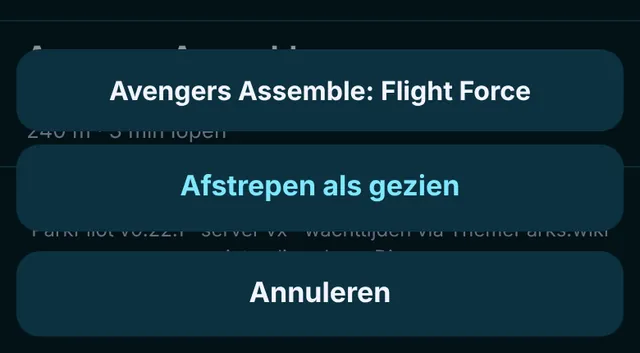
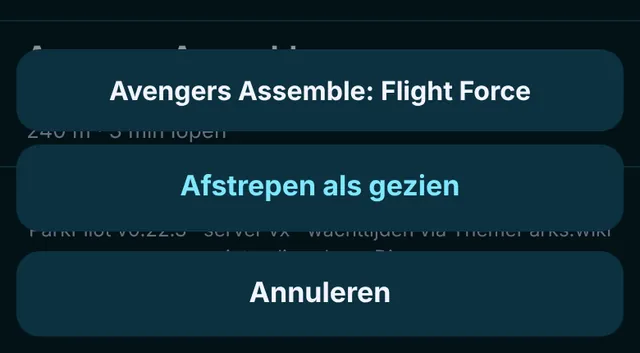
0.22.3: regel onder de naam op één regel met iconen; veranderd nooit recenter dan bevestigd
Claude-Session: https://claude.ai/code/session_01LXXgKJuMiuwNeSbj9zwCKJ

Changed region(s): [[0.0312, 0.6544, 0.9688, 0.6856]]

diff --git a/apps/web/src/i18n.ts b/apps/web/src/i18n.ts
@@ -19,6 +19,9 @@ const nl = {
   ago: (span: string) => `${span} geleden`,
   min: (m: number) => `${m} min`,
   hours: (h: number, m: number) => (m ? `${h} u ${m} min` : `${h} u`),
+  hoursShort: (h: number, m: number) => (m ? `${h} u ${m}` : `${h} u`),
+  daysShort: (d: number) => `${d} d`,
+  geq: (span: string) => `≥ ${span}`,
   days: (d: number) => `${d} dagen`,
   inDur: (d: string) => `over ${d}`,
   now: 'nu',
@@ -452,7 +455,7 @@ const nl = {
   helpToCode: 'Naar koppelcode',
   helpTopics: [
     { id: 'views', title: 'Alles en Mijn dag', body: ['Alles toont het hele park met tabbladen voor attracties, shows en wat je volgt. Mijn dag toont alleen wat je volgt, met shows bovenaan.', 'Volgen: tik op een naam en dan op Volgen. Het park wissel je in Alles met de knoppen onder de schakelaar.'] },
-    { id: 'signs', title: 'Wachttijden en tekens', body: ['Het getal is de wachttijd in minuten: groen onder 20, oranje onder 45, daarboven rood.', 'Rood uitroepteken = storing, grijze moersleutel = onderhoud, maantje = park dicht. Klein getal rechtsboven = single rider. ▲ rood = langer, ▼ groen = korter dan de vorige meting.', 'Veranderd = wanneer ParkPilot het getal zag veranderen (het meet elke 5 minuten). Bevestigd = wanneer de bron het getal voor het laatst doorgaf: groen tot 10 min, oranje tot 30 min, daarna rood. "Al 2 u gelijk" = niet veranderd sinds ParkPilot begon te meten; het echte moment kan eerder zijn.', 'Grijs getal = de bron gaf al meer dan 30 minuten geen update; het kan verouderd zijn. Zulke getallen tellen niet mee in gemiddelde en kortste wachttijd.', 'Storingstegel (linksboven in Alles): de storingen van vandaag met tijd, duur en attractie; rood = loopt nog. Tik op een kop om te sorteren, nog eens = omgekeerd. "Al minstens" = liep al toen ParkPilot begon te meten. Onder Onderhoud staan ook attracties die al meer dan een dag dicht zijn; de datum is de laatste update van de bron.'] },
+    { id: 'signs', title: 'Wachttijden en tekens', body: ['Het getal is de wachttijd in minuten: groen onder 20, oranje onder 45, daarboven rood.', 'Rood uitroepteken = storing, grijze moersleutel = onderhoud, maantje = park dicht. Klein getal rechtsboven = single rider. ▲ rood = langer, ▼ groen = korter dan de vorige meting.', 'Regel onder de naam: trapje = hoe lang geleden de wachttijd veranderde, vinkje = hoe lang geleden de bron hem voor het laatst bevestigde (groen tot 10 min, oranje tot 30 min, daarna rood). "≥ 2 u" = ParkPilot zag hem in die tijd niet veranderen; het echte moment kan eerder zijn. De verandering is nooit recenter dan de bevestiging: ParkPilot meet elke 5 minuten en neemt dan het tijdstip van de bron.', 'Grijs getal = de bron gaf al meer dan 30 minuten geen update; het kan verouderd zijn. Zulke getallen tellen niet mee in gemiddelde en kortste wachttijd.', 'Storingstegel (linksboven in Alles): de storingen van vandaag met tijd, duur en attractie; rood = loopt nog. Tik op een kop om te sorteren, nog eens = omgekeerd. "Al minstens" = liep al toen ParkPilot begon te meten. Onder Onderhoud staan ook attracties die al meer dan een dag dicht zijn; de datum is de laatste update van de bron.'] },
     { id: 'expand', title: 'Uitklappen en details', body: ['Tik op een wachttijd voor het verloop van vandaag, van opening tot sluiting. De schaal rechts is in minuten. Alleen wijzigingen die ParkPilot zag (elke 5 minuten) staan erin.', 'Stippellijn = dezelfde weekdag in de vorige weken (gemiddeld, tot vier weken). Lichtrode zone met rode stippellijn onderin = storing. Grijze lijn = de bron gaf in die tijd geen update. Grijze achtergrond met een tijdstip = je had geen bereik; het werkt zich vanzelf bij.', 'Tik op de naam voor details en omschrijving. Omschrijvingen en lengtes zijn door ParkPilot samengesteld; controleer de borden bij de ingang.'] },
     { id: 'swipe', title: 'Vegen en afstrepen', body: ['In Mijn dag: naar links vegen strept af als gezien (alleen vandaag, alleen dit toestel). Nog eens vegen maakt het ongedaan.', 'Naar rechts vegen opent lopende navigatie. Met de knop Gezien verberg je afgestreepte rijen.'] },
     { id: 'queue', title: 'In de rij en spelletje', body: ['Houd een attractie even vast en kies de rij. Onderin loopt de tijd met de verwachting. Tik op Aan de beurt en daarna Eruit; je ziet hoe lang je echt wachtte.', 'Bij inchecken kun je een spelletje spelen met gedeelde hiscores. Niet meer vragen? Zet het terug in Instellingen.'] },
@@ -481,6 +484,9 @@ const en: Dict = {
   ago: (span) => `${span} ago`,
   min: (m) => `${m} min`,
   hours: (h, m) => (m ? `${h} h ${m} min` : `${h} h`),
+  hoursShort: (h, m) => (m ? `${h} h ${m}` : `${h} h`),
+  daysShort: (d) => `${d} d`,
+  geq: (span) => `≥ ${span}`,
   days: (d) => `${d} days`,
   inDur: (d) => `in ${d}`,
   now: 'now',
@@ -895,7 +901,7 @@ const en: Dict = {
   helpToCode: 'Go to link code',
   helpTopics: [
     { id: 'views', title: 'All and My day', body: ['All shows the whole park with tabs for attractions, shows and what you follow. My day shows only what you follow, with shows at the top.', 'Follow: tap a name, then Follow. Switch park in All with the buttons below the switch.'] },
-    { id: 'signs', title: 'Wait times and signs', body: ['The number is the wait time in minutes: green under 20, orange under 45, red above that.', 'Red exclamation mark = down, grey wrench = refurbishment, moon = park closed. Small number top right = single rider. ▲ red = longer, ▼ green = shorter than the previous reading.', 'Changed = when ParkPilot saw the number change (it checks every 5 minutes). Confirmed = when the source last reported the number: green up to 10 min, orange up to 30 min, red after that. "Same for 2 h" = unchanged since ParkPilot started measuring; the real moment may be earlier.', 'Grey number = the source has not updated for more than 30 minutes; it may be out of date. Such numbers do not count towards the average and shortest wait.', 'Breakdown tile (top left in All): today\'s breakdowns with time, duration and attraction; red = still ongoing. Tap a header to sort, again = reverse. "At least" = it was already going when ParkPilot started measuring. Refurbishment also lists attractions closed for more than a day; the date is the source\'s last update.'] },
+    { id: 'signs', title: 'Wait times and signs', body: ['The number is the wait time in minutes: green under 20, orange under 45, red above that.', 'Red exclamation mark = down, grey wrench = refurbishment, moon = park closed. Small number top right = single rider. ▲ red = longer, ▼ green = shorter than the previous reading.', 'Line under the name: steps = how long ago the wait time changed, tick = how long ago the source last confirmed it (green up to 10 min, orange up to 30 min, red after that). "≥ 2 h" = ParkPilot did not see it change in that time; the real moment may be earlier. The change is never more recent than the confirmation: ParkPilot checks every 5 minutes and then uses the source\'s time.', 'Grey number = the source has not updated for more than 30 minutes; it may be out of date. Such numbers do not count towards the average and shortest wait.', 'Breakdown tile (top left in All): today\'s breakdowns with time, duration and attraction; red = still ongoing. Tap a header to sort, again = reverse. "At least" = it was already going when ParkPilot started measuring. Refurbishment also lists attractions closed for more than a day; the date is the source\'s last update.'] },
     { id: 'expand', title: 'Expanding and details', body: ['Tap a wait time for today\'s history, from opening to closing. The scale on the right is in minutes. Only changes ParkPilot saw (every 5 minutes) are included.', 'Dotted line = the same weekday in previous weeks (average, up to four weeks). Light red zone with a red dotted line at the bottom = down. Grey line = the source gave no update during that time. Grey background with a time = you had no signal; it updates by itself.', 'Tap the name for details and a description. Descriptions and heights are compiled by ParkPilot; check the signs at the entrance.'] },
     { id: 'swipe', title: 'Swiping and ticking off', body: ['In My day: swipe left to tick off as seen (today only, this device only). Swipe again to undo.', 'Swipe right for walking directions. The Seen button hides ticked-off rows.'] },
     { id: 'queue', title: 'In the queue and the game', body: ['Hold an attraction and choose the queue. The time runs at the bottom with the expected wait. Tap My turn, then Done; you see how long you really waited.', 'When checking in you can play a game with shared high scores. Turned off asking? Turn it back on in Settings.'] },
@@ -922,6 +928,9 @@ const pt: Dict = {
   ago: (span) => `há ${span}`,
   min: (m) => `${m} min`,
   hours: (h, m) => (m ? `${h} h ${m} min` : `${h} h`),
+  hoursShort: (h, m) => (m ? `${h} h ${m}` : `${h} h`),
+  daysShort: (d) => `${d} d`,
+  geq: (span) => `≥ ${span}`,
   days: (d) => `${d} dias`,
   inDur: (d) => `daqui a ${d}`,
   now: 'agora',
@@ -1336,7 +1345,7 @@ const pt: Dict = {
   helpToCode: 'Ir para o código de ligação',
   helpTopics: [
     { id: 'views', title: 'Tudo e O meu dia', body: ['Tudo mostra o parque inteiro com separadores para atrações, espetáculos e o que segue. O meu dia mostra só o que segue, com os espetáculos no topo.', 'Seguir: toque num nome e depois em Seguir. Mude de parque em Tudo com os botões por baixo do seletor.'] },
-    { id: 'signs', title: 'Tempos e sinais', body: ['O número é o tempo de espera em minutos: verde abaixo de 20, laranja abaixo de 45, vermelho acima disso.', 'Ponto de exclamação vermelho = avaria, chave cinzenta = manutenção, lua = parque fechado. Número pequeno no canto superior direito = single rider. ▲ vermelho = mais longo, ▼ verde = mais curto do que a medição anterior.', 'Alterado = quando o ParkPilot viu o número mudar (verifica a cada 5 minutos). Confirmado = quando a fonte comunicou o número pela última vez: verde até 10 min, laranja até 30 min, depois vermelho. "Igual há 2 h" = sem alteração desde que o ParkPilot começou a medir; o momento real pode ser anterior.', 'Número cinzento = a fonte não atualiza há mais de 30 minutos; pode estar desatualizado. Estes números não contam para a média nem para o tempo mais curto.', 'Mosaico de avarias (canto superior esquerdo em Tudo): as avarias de hoje com hora, duração e atração; vermelho = ainda a decorrer. Toque num cabeçalho para ordenar, novamente = inverter. "Pelo menos" = já decorria quando o ParkPilot começou a medir. Em Manutenção também aparecem atrações fechadas há mais de um dia; a data é a última atualização da fonte.'] },
+    { id: 'signs', title: 'Tempos e sinais', body: ['O número é o tempo de espera em minutos: verde abaixo de 20, laranja abaixo de 45, vermelho acima disso.', 'Ponto de exclamação vermelho = avaria, chave cinzenta = manutenção, lua = parque fechado. Número pequeno no canto superior direito = single rider. ▲ vermelho = mais longo, ▼ verde = mais curto do que a medição anterior.', 'Linha sob o nome: degraus = há quanto tempo o tempo de espera mudou, visto = há quanto tempo a fonte o confirmou pela última vez (verde até 10 min, laranja até 30 min, depois vermelho). "≥ 2 h" = o ParkPilot não o viu mudar nesse período; o momento real pode ser anterior. A alteração nunca é mais recente do que a confirmação: o ParkPilot verifica a cada 5 minutos e usa a hora da fonte.', 'Número cinzento = a fonte não atualiza há mais de 30 minutos; pode estar desatualizado. Estes números não contam para a média nem para o tempo mais curto.', 'Mosaico de avarias (canto superior esquerdo em Tudo): as avarias de hoje com hora, duração e atração; vermelho = ainda a decorrer. Toque num cabeçalho para ordenar, novamente = inverter. "Pelo menos" = já decorria quando o ParkPilot começou a medir. Em Manutenção também aparecem atrações fechadas há mais de um dia; a data é a última atualização da fonte.'] },
     { id: 'expand', title: 'Abrir e detalhes', body: ['Toque num tempo de espera para ver a evolução de hoje, da abertura ao fecho. A escala à direita é em minutos. Só entram as alterações vistas pelo ParkPilot (a cada 5 minutos).', 'Linha pontilhada = o mesmo dia da semana nas semanas anteriores (média, até quatro semanas). Zona vermelho-clara com linha vermelha pontilhada em baixo = avaria. Linha cinzenta = a fonte não atualizou nesse período. Fundo cinzento com uma hora = estava sem rede; atualiza-se sozinho.', 'Toque no nome para detalhes e descrição. As descrições e alturas são compiladas pelo ParkPilot; confirme os avisos à entrada.'] },
     { id: 'swipe', title: 'Deslizar e marcar', body: ['Em O meu dia: deslizar para a esquerda marca como visto (só hoje, só neste aparelho). Deslize outra vez para anular.', 'Deslizar para a direita abre a navegação a pé. O botão Vistos esconde as linhas marcadas.'] },
     { id: 'queue', title: 'Na fila e o jogo', body: ['Mantenha uma atração premida e escolha a fila. Em baixo corre o tempo com a espera prevista. Toque em A minha vez e depois em Saí; vê quanto tempo esperou de facto.', 'Ao entrar na fila pode jogar um jogo com recordes partilhados. Desligou a pergunta? Volte a ligá-la nas Definições.'] },

diff --git a/apps/web/src/main.ts b/apps/web/src/main.ts
@@ -25,7 +25,7 @@ import {
 } from './api';
 import { parkArt, parkIcon } from './art';
 import { h, svg } from './dom';
-import { agoLabel, clock, dec1, dur, minutesSince, waitLevel } from './format';
+import { agoLabel, clock, dec1, dur, durShort, minutesSince, waitLevel } from './format';
 import { applyLang, getLangPref, kindName, lang, LANG_NAMES, LANGS, setLangPref, t as T, type LangPref } from './i18n';
 import { GeoError, formatDistance, getPosition, getPrecisePosition, haversineMeters, hasGeoPermission, walkMinutes } from './geo';
 import { icon, iconForKind } from './icons';
@@ -437,11 +437,23 @@ function openIssues(): void {
   }
 }
 
-function changedText(live: LiveInfo | undefined): string {
-  if (!live?.changedAt) return '';
-  if (live.changeObserved) return T.changed(agoLabel(live.changedAt));
-  const min = minutesSince(live.changedAt);
-  return min < 1 ? '' : T.unchangedFor(dur(min));
+/** Wanneer de wachttijd/status voor het laatst veranderde. Onze cron ziet een wijziging pas een paar minuten
+ *  nadat de bron hem doorgaf; is de bron-update ouder dan ons tijdstip, dan gebeurde de wijziging uiterlijk
+ *  toen. Zo is "veranderd" nooit recenter dan "bevestigd". Zelfde regel voor "al gelijk sinds". */
+function changedAtMs(live: LiveInfo | undefined): number | null {
+  if (!live?.changedAt) return null;
+  const c = Date.parse(live.changedAt);
+  const u = live.updatedAt ? Date.parse(live.updatedAt) : NaN;
+  return Number.isFinite(u) ? Math.min(c, u) : c;
+}
+
+/** Korte tekst voor de rij: "21 min" of (niet zelf zien veranderen) "≥ 3 u 10". */
+function changedShort(live: LiveInfo | undefined): string {
+  const c = changedAtMs(live);
+  if (c === null) return '';
+  const min = Math.max(0, Math.floor((Date.now() - c) / 60000));
+  if (live!.changeObserved) return durShort(min);
+  return min < 1 ? '' : T.geq(durShort(min));
 }
 
 /** Pijl met het verschil sinds de vorige waarneming. Hoger is slechter (rood), lager is beter (groen). */
@@ -465,16 +477,27 @@ function freshness(iso: string | null): 'fresh' | 'aging' | 'old' | 'unknown' {
   return min <= 10 ? 'fresh' : min <= 30 ? 'aging' : 'old';
 }
 
+/** Eén regel onder de naam: ▼ −5 · [trapje] 21 min · [vinkje] 5 min. Trapje = wachttijd veranderd, vinkje = bron
+ *  bevestigd (kleur = versheid). Woorden alleen voor schermlezers en bij lang drukken (title). */
 function metaLine(live: LiveInfo | undefined): HTMLElement | null {
   if (!live) return null;
   const parts: (Node | string)[] = [];
   const trend = trendNode(live);
-  if (trend) parts.push(trend, ' · ');
-  const changed = changedText(live);
-  if (changed) parts.push(changed, ' · ');
-  if (live.updatedAt) parts.push(h('span', { class: `src ${freshness(live.updatedAt)}` }, T.confirmed(agoLabel(live.updatedAt))));
-  else if (parts.length) parts.pop();
-  return parts.length ? h('div', { class: 'row-meta' }, ...parts) : null;
+  if (trend) parts.push(trend);
+  const changed = changedShort(live);
+  if (changed) {
+    const c = changedAtMs(live)!;
+    const full = live.changeObserved ? T.changed(agoLabel(new Date(c).toISOString())) : T.unchangedFor(dur(Math.floor((Date.now() - c) / 60000)));
+    parts.push(h('span', { class: 'mi', title: full, 'aria-label': full }, icon('changed', 13), changed));
+  }
+  if (live.updatedAt) {
+    const full = T.confirmed(agoLabel(live.updatedAt));
+    parts.push(h('span', { class: `mi src ${freshness(live.updatedAt)}`, title: full, 'aria-label': full }, icon('confirmed', 13), durShort(minutesSince(live.updatedAt))));
+  }
+  if (!parts.length) return null;
+  const line: (Node | string)[] = [];
+  parts.forEach((p, i) => { if (i) line.push(' · '); line.push(p); });
+  return h('div', { class: 'row-meta one' }, ...line);
 }
 
 function upcomingStarts(live: LiveInfo | undefined): number[] {
@@ -1733,10 +1756,12 @@ function openDetail(entity: EntityInfo, day?: { date: string; slots: ShowDayResp
       const t = { open: T.stOpenNoWait, down: T.stDown, closed: T.stClosed, refurbishment: T.stRefurb, unknown: T.stUnknown }[live.status];
       bigNodes.push(h('div', { class: 'big' }, statusRing(entity, live), h('div', { class: 'label' }, t)));
     }
-    if (live.changedAt) {
-      const unchanged = minutesSince(live.changedAt);
+    const cAt = changedAtMs(live);
+    if (cAt !== null) {
+      const cIso = new Date(cAt).toISOString();
+      const unchanged = Math.floor((Date.now() - cAt) / 60000);
       addFact(T.fWaitChanged, live.changeObserved
-        ? (live.prevWaitMinutes !== null ? T.wasPrev(agoLabel(live.changedAt), live.prevWaitMinutes) : agoLabel(live.changedAt))
+        ? (live.prevWaitMinutes !== null ? T.wasPrev(agoLabel(cIso), live.prevWaitMinutes) : agoLabel(cIso))
         : unchanged >= 1 ? T.unchangedFor(dur(unchanged)) : null);
     }
     addFact(T.fSrcUpdated, live.updatedAt ? agoLabel(live.updatedAt) : null);

diff --git a/apps/web/src/changelog.ts b/apps/web/src/changelog.ts
@@ -8,6 +8,13 @@ export interface ChangelogEntry { version: string; date?: string; changes: strin
 
 export const CHANGELOG: ChangelogEntry[] = [
   {
+    version: '0.22.3',
+    date: '2026-11-23',
+    changes: ['Regel onder de naam op één regel met twee icoontjes: trapje = veranderd, vinkje = bevestigd. "Veranderd" is nooit meer recenter dan "bevestigd"; lange tijden in dagen.'],
+    en: ['Line under the name now fits on one line with two icons: steps = changed, tick = confirmed. "Changed" is never more recent than "confirmed" any more; long spans in days.'],
+    pt: ['Linha sob o nome numa só linha com dois ícones: degraus = alterado, visto = confirmado. "Alterado" já nunca é mais recente do que "confirmado"; períodos longos em dias.'],
+  },
+  {
     version: '0.22.2',
     date: '2026-11-23',
     changes: ['De grafiek "Verloop vandaag" verspringt niet meer als hij na het openen wordt bijgewerkt.'],

diff --git a/apps/web/src/style.css b/apps/web/src/style.css
@@ -128,6 +128,11 @@ main { padding: 2px 0 12px; }
 .row-sub { font-size: 13px; color: var(--accent); font-weight: 600; display: flex; align-items: center; gap: 5px; flex-wrap: wrap; }
 .row-sub .plain { color: var(--muted); font-weight: 500; }
 .row-meta { font-size: 12px; color: var(--muted); margin-top: 1px; }
+/* Sinds 0.22.3: één regel met iconen (trapje = veranderd, vinkje = bevestigd); vinkje vervangt het stipje. */
+.row-meta.one { white-space: nowrap; overflow: hidden; text-overflow: ellipsis; }
+.mi { display: inline-flex; align-items: center; gap: 3px; vertical-align: -2px; }
+.mi .ico { flex: none; }
+.mi.src::before { display: none; }
 .trend { font-weight: 700; font-variant-numeric: tabular-nums; }
 .trend.up { color: var(--high); } .trend.down { color: var(--low); }
 .src { font-weight: 600; }

diff --git a/apps/web/src/icons.ts b/apps/web/src/icons.ts
@@ -21,6 +21,8 @@ const PATHS: Record<string, string[]> = {
   gauge: ['M4 17a8 8 0 1 1 16 0', 'M12 17l4-5'],
   bolt: ['M13 2L5 14h6l-1 8 8-12h-6z'],
   grid: ['M4 4h6.5v6.5H4z', 'M13.5 4H20v6.5h-6.5z', 'M4 13.5h6.5V20H4z', 'M13.5 13.5H20V20h-6.5z'],
+  changed: ['M3 19h5v-6h5V7h4', 'M14 4h4v4'],
+  confirmed: ['M12 3a9 9 0 1 0 0.01 0z', 'M8 12.5l2.8 2.8L16 9.8'],
   menu: ['M4 7h16', 'M4 12h16', 'M4 17h16'],
   stale: ['M12 3a9 9 0 1 0 0.01 0z', 'M12 7v5l3 2', 'M3 3l18 18'],
   help: ['M12 3a9 9 0 1 0 0.01 0z', 'M9.5 9.2a2.6 2.6 0 0 1 5 .8c0 1.8-2.5 2.2-2.5 3.8', 'M12 17h.01'],

diff --git a/apps/web/src/format.ts b/apps/web/src/format.ts
@@ -9,6 +9,14 @@ export function dur(min: number): string {
   return t.hours(Math.floor(min / 60), min % 60);
 }
 
+/** Korte duur voor de regel onder de naam: "5 min", "4 u 34", "17 d". */
+export function durShort(min: number): string {
+  if (min < 1) return t.justNow;
+  if (min < 60) return t.min(min);
+  if (min < 48 * 60) return t.hoursShort(Math.floor(min / 60), min % 60);
+  return t.daysShort(Math.floor(min / 1440));
+}
+
 export function agoLabel(iso: string | null, now = Date.now()): string {
   if (!iso) return t.unknown;
   const min = minutesSince(iso, now);

diff --git a/packages/shared/src/version.ts b/packages/shared/src/version.ts
@@ -1,2 +1,2 @@
 /** Eén bron voor het versienummer; app en server tonen dit allebei. Verhoog bij elke oplevering. */
-export const APP_VERSION = '0.22.2';
+export const APP_VERSION = '0.22.3';

diff --git a/HANDOVER.md b/HANDOVER.md
@@ -1,6 +1,6 @@
 # ParkPilot: overdrachtsdocument
 
-Eerste versie 21 november 2026. **Laatst bijgewerkt: 23 november 2026, 21:35** (zie logboek, hoofdstuk 16). Doel: een nieuwe Claude-chat, ook in een ander account, kan hiermee zonder voorkennis verder bouwen. Alles wat nodig is staat hier of in de repo. Lees dit eerst helemaal, vooral de hoofdstukken 2, 3, 4.1, 12 en **15**.
+Eerste versie 21 november 2026. **Laatst bijgewerkt: 23 november 2026, 21:55** (zie logboek, hoofdstuk 16). Doel: een nieuwe Claude-chat, ook in een ander account, kan hiermee zonder voorkennis verder bouwen. Alles wat nodig is staat hier of in de repo. Lees dit eerst helemaal, vooral de hoofdstukken 2, 3, 4.1, 12 en **15**.
 
 **Vaste afspraak:** Claude werkt dit document bij na elke wijziging, beslissing of nieuwe kennis, in dezelfde beurt, zowel in het claude.ai-project "ParkPilot" (`claude/ParkPilot-HANDOVER.md`) als in de repo (`HANDOVER.md`). Wat Claude leert over Remco's werkwijze en voorkeuren, en alles wat hij een "framework feature" noemt, gaat naar hoofdstuk 15.
 
@@ -14,7 +14,7 @@ Eerste versie 21 november 2026. **Laatst bijgewerkt: 23 november 2026, 21:35** (
 - **Live:** https://parkpilot.remco-dv.workers.dev
 - **Repo:** https://github.com/RemcoNLD/parkpilot (publiek). Cloudflare Workers Builds bouwt en deployt automatisch bij elke commit.
 - **Stack:** Vite + TypeScript (vanilla, geen framework) · één Cloudflare Worker (API + statische assets) · Cloudflare D1 (SQLite) · live data van ThemeParks.wiki.
-- **Versie in de code:** `0.22.2` (23 nov 2026 ~21:35): grafiek verspringt niet meer na bijwerken (6.5). Daarvoor `0.22.1` (23 nov 2026 ~21:10): uitlegteksten uit beeld naar Help (15.4 punt 15), "veranderd … / bevestigd …" (6.2), detailvenster van een show vanuit een andere dag (6.4), onleesbare verwachte tijd bij gevolgde show. Daarvoor `0.22.0` (23 nov 2026, gepusht naar `main` om ~20:42, commit 9012567): rondleiding begint met welkom + koppelcode en de keuze Meteen beginnen / Rondleiding (6.12); bezette eigen code → vraag om dat lijstje te openen (6.12); detailvenster opnieuw geordend met "Over deze cijfers" ingeklapt (6.4). Daarvoor `0.21.2`, gepusht naar `main` op 23 nov 2026 ~18:50: menu (☰) linksboven met uitklapmenu eronder, op de EVailability-manier (6.2, 15.3 punt 16). Daarvoor 0.21.1: storingstabel sorteerbaar via de kop (6.13). Daarvoor 0.21.0: langdurig dicht → Onderhoud (6.14) en storingen van vandaag als compacte tabel (6.13). Daarvoor 0.20.0 (storingen als tijdlijnen, door Remco afgekeurd) en 0.19.0 (commit a08faa6): grijs bij een stille bron (6.5b), rondleiding met schermafbeeldingen (6.12), menuknop ☰, waarschuwingen bij de koppelcode. Daarvoor 0.18.1 (grafiek opening–sluiting) en 0.18.0 (rondleiding, help, stippellijn). Nog niet door Remco bevestigd. 0.9.0 (single rider) bevestigd met "Werkt".
+- **Versie in de code:** `0.22.3` (23 nov 2026 ~21:55): regel onder de naam op één regel met iconen, veranderd nooit recenter dan bevestigd (6.2). Daarvoor `0.22.2` (23 nov 2026 ~21:35): grafiek verspringt niet meer na bijwerken (6.5). Daarvoor `0.22.1` (23 nov 2026 ~21:10): uitlegteksten uit beeld naar Help (15.4 punt 15), "veranderd … / bevestigd …" (6.2), detailvenster van een show vanuit een andere dag (6.4), onleesbare verwachte tijd bij gevolgde show. Daarvoor `0.22.0` (23 nov 2026, gepusht naar `main` om ~20:42, commit 9012567): rondleiding begint met welkom + koppelcode en de keuze Meteen beginnen / Rondleiding (6.12); bezette eigen code → vraag om dat lijstje te openen (6.12); detailvenster opnieuw geordend met "Over deze cijfers" ingeklapt (6.4). Daarvoor `0.21.2`, gepusht naar `main` op 23 nov 2026 ~18:50: menu (☰) linksboven met uitklapmenu eronder, op de EVailability-manier (6.2, 15.3 punt 16). Daarvoor 0.21.1: storingstabel sorteerbaar via de kop (6.13). Daarvoor 0.21.0: langdurig dicht → Onderhoud (6.14) en storingen van vandaag als compacte tabel (6.13). Daarvoor 0.20.0 (storingen als tijdlijnen, door Remco afgekeurd) en 0.19.0 (commit a08faa6): grijs bij een stille bron (6.5b), rondleiding met schermafbeeldingen (6.12), menuknop ☰, waarschuwingen bij de koppelcode. Daarvoor 0.18.1 (grafiek opening–sluiting) en 0.18.0 (rondleiding, help, stippellijn). Nog niet door Remco bevestigd. 0.9.0 (single rider) bevestigd met "Werkt".
 - **Rondleiding en help (sinds 0.18.0):** zie 6.12. De menuknop **linksboven** (☰, sinds 0.21.2; daarvoor rechtsboven, tot 0.19.0 een tandwiel) klapt eronder open met Instellingen / Help / Rondleiding.
 - **Bij elke nieuwe versie:** nummer ophogen in `version.ts` + `package.json` **én** een regel toevoegen bovenaan `apps/web/src/changelog.ts` (in de app: Instellingen > Wat is er nieuw), in het Nederlands (`changes`), Engels (`en`) én Portugees (`pt`), datum als `JJJJ-MM-DD`. Korte, gewone taal, gericht op wat Remco ziet.
 - **Meertalig:** Nederlands, Engels (sinds 0.13.0) en Portugees (sinds 0.16.0). Elke tekst in de app staat in `apps/web/src/i18n.ts` (nl + en + pt). Nooit losse teksten in `main.ts`; nieuwe teksten altijd in alle drie de talen; zie 6.9.
@@ -179,6 +179,7 @@ De oude losse bestanden in de repo-root (`dom.ts`, `main.ts` enz. van de eerste 
 - Tabs Attracties / Shows / Volgend, sorteerchips (Wachttijd, Afstand, Naam), filter "Alleen open" (houdt rekening met gesloten park). Shows-tab heeft een **dagkeuze** (zie 7.3).
 - Rij: ring met wachttijd (<20 groen, <45 oranje, anders rood), naam, soortregel, afstand/looptijd, bronleeftijd. Storing = rood uitroepteken zonder ring; onderhoud = grijze moersleutel zonder ring; park dicht = gedimd met maantje.
 - **Regel onder de naam (sinds 0.22.1)** (Remco, 20:50: "Laatste update en laatste keer terugkoppeling van de bron moet duidelijker. Wachttijd is laatst x minuten geleden veranderd. Voor het laatst bevestigd door de bron x minuten geleden. Die tekst efficiënter maar wel duidelijk."): "▼ −5 · veranderd 21 min geleden · ● bevestigd 5 min geleden" (stip/kleur = versheid bron: groen ≤10, oranje ≤30, rood). Niet gezien veranderen: "al 3 u gelijk". Statusregel bovenaan: "Opgehaald zojuist · bron bevestigd 2 min geleden"; in Mijn dag "bron bevestigd …". Teksten `changed`, `unchangedFor`, `confirmed`, `srcLatest`, `freshUpdated`, `srcAgo`, `wasPrev`.
+- **Eén regel met iconen (sinds 0.22.3)** (Remco, 21:41, screenshot "veranderd 4 u 34 · bevestigd 4 u 37" en "al 70 u gelijk · bevestigd 412 u"): "De teksten kunnen niet kloppen. Laatste update is recenter dan de laatste controle? Zet op 1 regel en verzin twee iconen." **Oorzaak:** `changedAt` is het moment dat onze cron (elke 5 min) de wijziging zag, `updatedAt` het moment van de bron; de cron ziet het dus altijd een paar minuten later. Bij "al gelijk" begon onze meting later dan de laatste bron-update. **Regel nu:** `changedAtMs()` = min(`changedAt`, `updatedAt`), in de rij én het detailvenster. **Weergave:** `metaLine()` = "▼ −5 · [trapje] 21 min · [vinkje] 5 min", zonder woorden, `nowrap` + ellipsis. Icoon `changed` (trapje met pijl) en `confirmed` (vinkje in cirkel, kleur = versheid, vervangt het stipje). Korte duur `durShort()` in `format.ts`: "5 min", "4 u 34", vanaf 48 u "17 d". Niet zelf zien veranderen: "≥ 3 u 10" (`T.geq`). Volledige zin in `title`/`aria-label`. Help › Wachttijden en tekens legt de iconen uit (nl/en/pt). Bekeken in Chrome-screenshot donker/nl met rijke nepdata.
 - **Tik op wachttijd/showtijd** klapt de rij uit. Bij attracties met single rider staat bovenin het uitklappen "Single rider" met de wachttijd (alleen getal, kleur per niveau) of "geen wachttijd bekend"; alleen als de attractie open is en het park open. Geldt in Overzicht én Mijn programma (`singleRiderLine()`). Ook in het detailvenster bij de feiten. **Tik op de naam** opent het detailvenster.
 - **Geen omschrijvingen in lijsten.**
 
@@ -619,6 +620,7 @@ Claude vult dit aan zodra iets nieuws blijkt. Geldt **voor elke app** van Remco.
 ## 16. Logboek
 
 - **21 nov 2026, ochtend:** overdrachtsdocument opgesteld (einde vorige bouwsessie).
+- **23 nov 2026, 21:55 — versie 0.22.3:** Remco (21:41): veranderd recenter dan bevestigd kan niet; één regel met twee iconen. Gebouwd (6.2). Patch. 38 × ok; screenshot donker/nl. Niet op een iPhone.
 - **23 nov 2026, 21:35 — versie 0.22.2:** Remco (21:26, drie stills uit een video): grafiek springt na laden van de bewaarde stand naar de nieuwe. Oorzaak en oplossing in 6.5. Patch. 38 × ok; screenshots `history` donker/nl en licht/pt. Niet op een iPhone.
 - **23 nov 2026, 21:10 — versie 0.22.1:** Remco (20:50, drie screenshots): redundante uitlegteksten weg (naar Help), min/max niet in tekst, "veranderd/bevestigd" duidelijker, bug: detail van een show vanuit Morgen streepte tijden van vandaag af. Gebouwd (6.2, 6.4, 15.4 punt 15). Ook gevonden op zijn screenshot: gevolgde show met verwachte tijd had een leeg kader (donkere tekst op transparant), opgelost met `.slot.fav.guess`. Patch (opruimen + fixes). 38 × ok; screenshots donker/nl (`days`, `main` rijk). Rondleidingsafbeeldingen opnieuw. Niet op een iPhone.
 - **23 nov 2026, 21:00 — versie 0.22.0:** Remco (20:30, drie screenshots): intro met uitleg + codekeuze eerst, daarna Meteen beginnen / Rondleiding; bezette eigen code → vragen om te openen, server leidend; detailvenster: technische regels onder de grafiek inklappen. Gebouwd (6.4, 6.12), help Koppelcode aangevuld (nl/en/pt), screenshot-scenario `tour` herschreven (welkom, alle keuzes incl. bezette code, Meteen beginnen, menu begint bij stap 1), `main` met `PP_RICH=1` maakt nu ook het detailvenster van Cars ROAD TRIP. Minor (nieuw gedrag). 38 × ok; screenshots donker/nl, licht/pt, detail donker/nl; 48 rondleidingsafbeeldingen opnieuw. Eerste poging: `add_repo` geweigerd ("Unauthorized Access"), zip geleverd. Remco (20:41): "Link de repo en push zelf." Tweede `add_repo` werkte, gepusht (commit 9012567); zip overbodig. Niet op een iPhone. Opgemerkt, niet gebouwd: afstand "505,5 km, 6740 min lopen" als je thuis bent (voorstel: verbergen boven ~5 km van het park).
